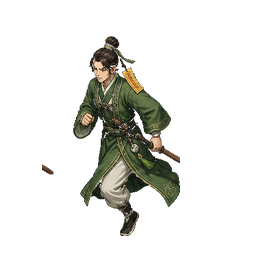
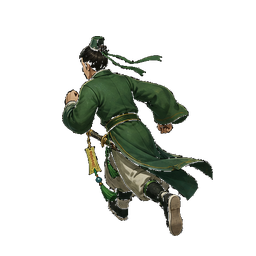
fix: 2x3网格入库剩余广审包，ingest 支持 --grid

Changed region(s): [[0.2188, 0.125, 0.8438, 0.9375], [0.1562, 0.625, 0.2188, 0.6875]]

diff --git a/scripts/ingest_black_strip.py b/scripts/ingest_black_strip.py
@@ -141,11 +141,30 @@ def ingest(path: Path, class_id: str, direction: str, action: str) -> dict:
     return metrics(locked)
 
 
+def ingest_grid(path: Path, class_id: str, direction: str, action: str, cols: int = 3, rows: int = 2) -> dict:
+    from commercial_anim_pipeline import keep_largest_subject, slice_grid
+    sheet = crop_label_bar(Image.open(path))
+    grid = slice_grid(sheet, cols=cols, rows=rows)
+    raw = [cell for row in grid for cell in row]
+    keyed = []
+    for frame in raw:
+        frame = black_key(frame)
+        frame = keep_largest_subject(frame)
+        frame = density_trim(frame)
+        frame = remove_debris(frame)
+        keyed.append(frame)
+    locked = [place_bbox_foot(crop_subject(frame, pad=2), target_h=TARGET_H) for frame in keyed]
+    write_pack(class_id, direction, action, locked)
+    return metrics(locked)
+
+
 if __name__ == "__main__":
     parser = argparse.ArgumentParser()
     parser.add_argument("path")
     parser.add_argument("class_id")
     parser.add_argument("direction")
     parser.add_argument("action")
+    parser.add_argument("--grid", action="store_true", help="slice as 2x3 grid instead of horizontal strip")
     args = parser.parse_args()
-    print(ingest(Path(args.path), args.class_id, args.direction, args.action))
+    fn = ingest_grid if args.grid else ingest
+    print(fn(Path(args.path), args.class_id, args.direction, args.action))
